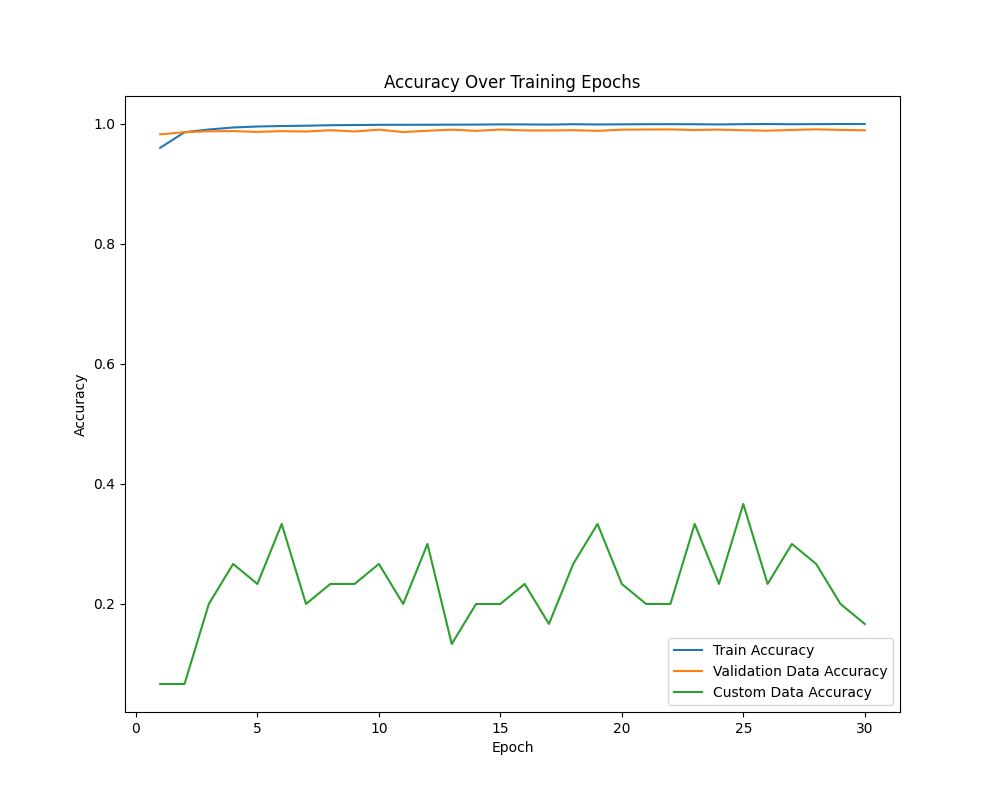
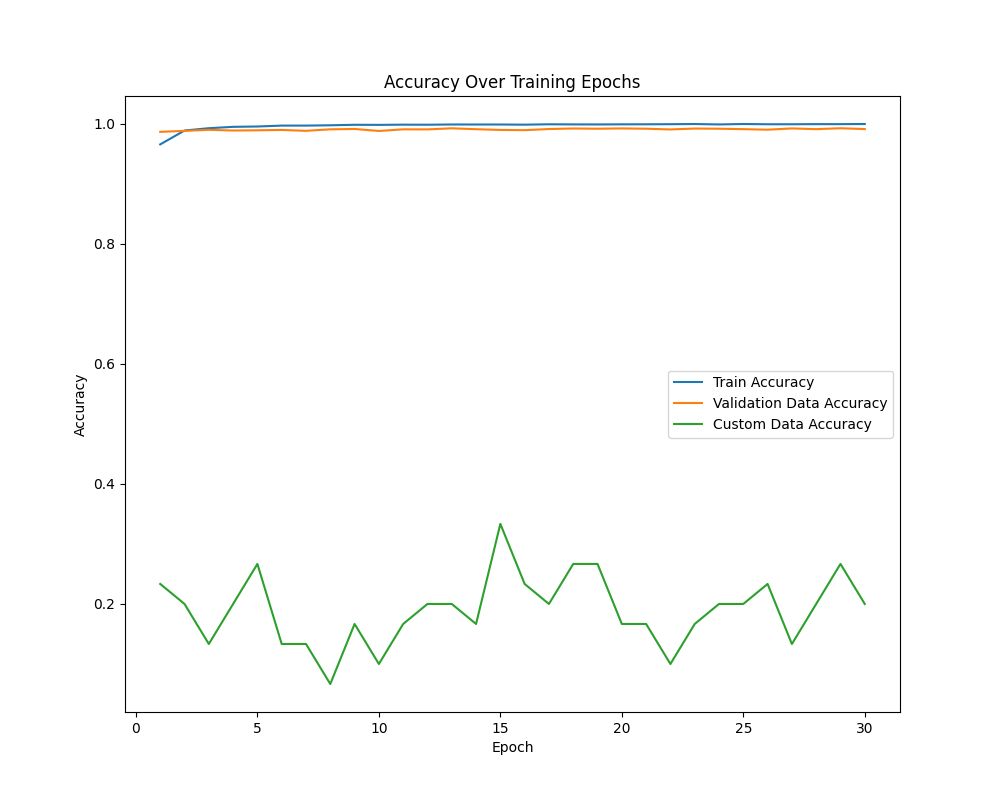
added last layer

diff --git a/Sem4/AI/neural/compile.py b/Sem4/AI/neural/compile.py
@@ -13,12 +13,14 @@ model = tf.keras.models.Sequential([
     
     # relu - rectified linear unit
     # zero negative values, shut down neuron, help with vanishing gradient
+    tf.keras.layers.Conv2D(32, (3, 3), activation='relu'),
     tf.keras.layers.Conv2D(64, (3, 3), activation='relu'),
 
     # flattens image to 1D array
     tf.keras.layers.Flatten(),
 
     # final interpretation layer
+    tf.keras.layers.Dense(128, activation='relu'),
     tf.keras.layers.Dense(10, activation='softmax')
 ])
 
